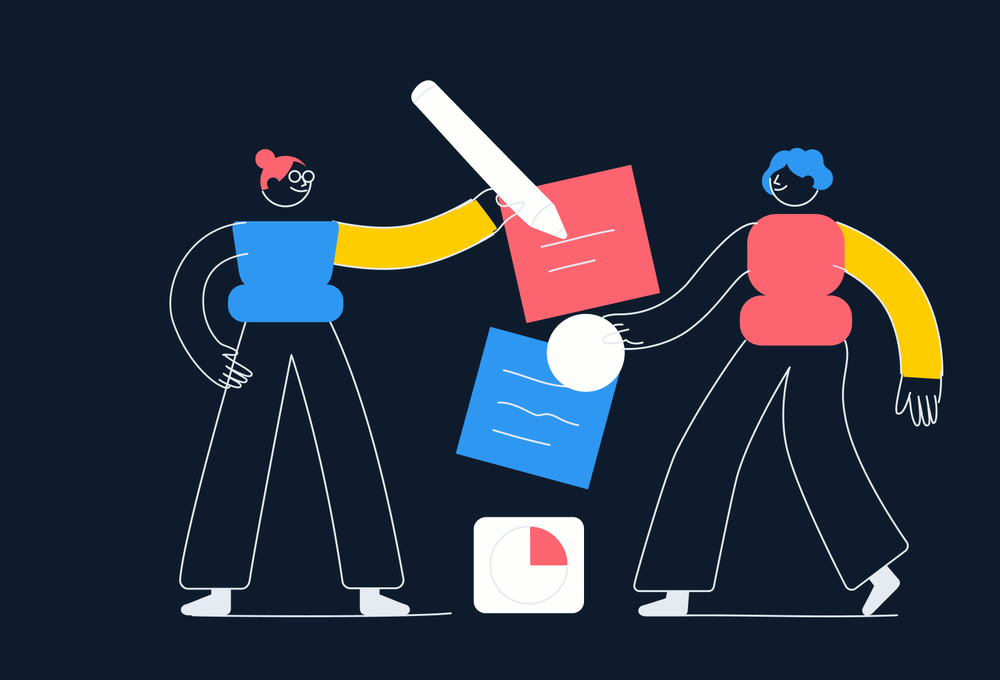
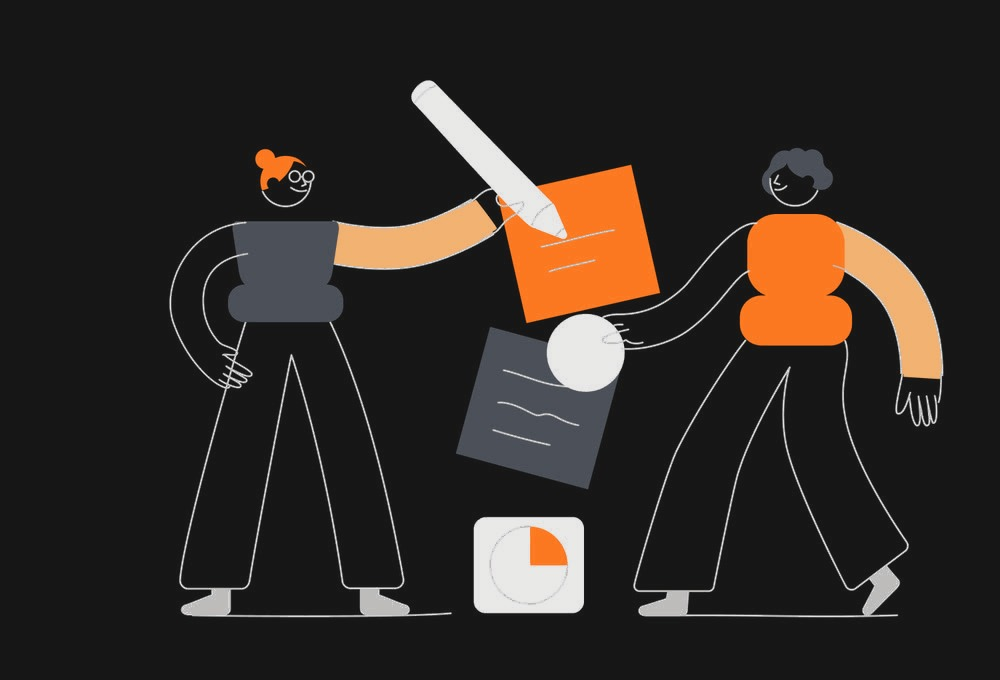
Mehrino: visible card strokes and faded persona numbers; Payment: illustrations recoloured for dark mode

diff --git a/stories/mehrino.js b/stories/mehrino.js
@@ -479,7 +479,7 @@ window.STORIES["mehrino"] = {
     .cs-media:has(> .mh-root) > .cs-media-head{display:none}
     .cs-story:has(.mh-root){padding-bottom:40px}
     .mh-root section{padding:0}
-    .mh-root{--b:#0F518F;--nv:#082C4E;--c2:#C2C2C2;--ink:#FAFAFA;--card:rgba(8,44,78,.03);--edge:rgba(15,81,143,.8);
+    .mh-root{--b:#0F518F;--nv:#082C4E;--c2:#C2C2C2;--ink:#FAFAFA;--card:rgba(8,44,78,.03);--edge:rgba(255,255,255,.26);--edge2:rgba(255,255,255,.16);
       position:relative;width:1216px;
       font-family:Roboto,system-ui,sans-serif;color:var(--ink);letter-spacing:0;line-height:1.5;font-size:16px}
     .mh-root :is(h2,h3,h4,h5,h6){color:var(--ink);letter-spacing:0;line-height:1.2;font-weight:300;margin:0}
@@ -545,7 +545,7 @@ window.STORIES["mehrino"] = {
     .mh-subject h4 b{font-weight:700}
     .mh-subject img{position:absolute;left:2px;right:2px;bottom:0;width:calc(100% - 4px);height:auto}
     .mh-desc{padding:128px 18px 0 19px;color:var(--c2)}
-    .mh-dnum{position:absolute;z-index:1;left:17px;top:24px;font:80px/1 "Rammetto One",sans-serif;color:var(--c2);letter-spacing:-.02em;pointer-events:none}
+    .mh-dnum{position:absolute;z-index:0;left:17px;top:24px;font:80px/1 "Rammetto One",sans-serif;color:rgba(194,194,194,.14);letter-spacing:-.02em;pointer-events:none}
     .mh-dnum small{font-size:50px}
     .mh-desc h4{position:absolute;left:26px;top:76px;font-size:30px;line-height:35px!important;color:var(--c2)!important;white-space:nowrap}
     .mh-desc h4 b{font-weight:700}
@@ -568,7 +568,7 @@ window.STORIES["mehrino"] = {
     .mh-who{display:block;font-size:12px;color:var(--c2);margin-top:8px}
     .mh-ins-grid h6{font-size:20px;line-height:23px!important;margin:10px 0 9px!important}
     .mh-ins-grid h6 b{font-weight:700}
-    .mh-ibox{background:rgba(8,44,78,.06);border-radius:20px;padding:23px 14px 14px 18px;font-size:10px;line-height:1.5;color:var(--c2)}
+    .mh-ibox{background:rgba(8,44,78,.06);border:1px solid var(--edge2);border-radius:20px;padding:23px 14px 14px 18px;font-size:10px;line-height:1.5;color:var(--c2)}
     .mh-ibox.pain{min-height:227px;margin-bottom:9px}
     .mh-ibox.pain + h6{margin-top:0!important}
     .mh-ibox:not(.pain){min-height:98px;padding-top:11px}
@@ -610,23 +610,23 @@ window.STORIES["mehrino"] = {
     .mh-prep{display:grid;grid-template-columns:repeat(2,minmax(0,416px));justify-content:center;column-gap:40px;row-gap:40px;margin-top:42px}
     .mh-prep h5{text-align:center;font-size:16px;line-height:19px!important;color:var(--c2)!important;margin-bottom:16px!important}
     .mh-prep h5 b{font-weight:800}
-    .mh-pq{height:calc(100% - 35px);background:rgba(8,44,78,.04);border:1px solid rgba(8,44,78,.3);border-radius:20px;padding:15px 10px 15px 10px;font-size:12px;line-height:18px;color:var(--c2);text-align:justify}
+    .mh-pq{height:calc(100% - 35px);background:rgba(8,44,78,.04);border:1px solid var(--edge2);border-radius:20px;padding:15px 10px 15px 10px;font-size:12px;line-height:18px;color:var(--c2);text-align:justify}
     .mh-pq ul{text-align:left;padding:10px 6px 0}
     .mh-prep > div:nth-child(-n+2) .mh-pq{min-height:307px}
     .mh-prep > div:nth-child(n+3) .mh-pq{min-height:179px}
     .mh-ctitle.hmw{margin-top:113px}
     .mh-hmwq{display:flex;flex-direction:column;align-items:center;gap:12px;margin-top:30px}
-    .mh-hmwq p{width:min(730px,100%);min-height:70px;display:grid;place-items:center;padding:12px 40px;background:rgba(8,44,78,.04);border:1px solid rgba(8,44,78,.3);border-radius:10px;font-size:14px;line-height:21px;text-align:center}
+    .mh-hmwq p{width:min(730px,100%);min-height:70px;display:grid;place-items:center;padding:12px 40px;background:rgba(8,44,78,.04);border:1px solid var(--edge2);border-radius:10px;font-size:14px;line-height:21px;text-align:center}
     .mh-ctitle.ps{margin-top:59px}
     .mh-ps{display:flex;flex-direction:column;align-items:center;gap:16px;margin-top:40px}
-    .mh-ps p{width:min(897px,100%);min-height:93px;display:grid;place-items:center;padding:12px 27px;background:rgba(8,44,78,.05);border-radius:10px;font-size:16px;font-weight:500;line-height:24px;text-align:center}
+    .mh-ps p{width:min(897px,100%);min-height:93px;display:grid;place-items:center;padding:12px 27px;background:rgba(8,44,78,.05);border:1px solid var(--edge2);border-radius:10px;font-size:16px;font-weight:500;line-height:24px;text-align:center}
 
     /* 02 personas */
     .mh-personas{margin-top:91px}
     .mh-personas > .mh-ctitle ~ .mh-ctitle{margin-top:150px}
     .mh-persona{display:grid;grid-template-columns:419fr 272fr 419fr;gap:16px;margin-top:28px}
     .mh-pcol{display:flex;flex-direction:column;gap:8px}
-    .mh-pbox{background:rgba(8,44,78,.05);border:1px solid rgba(8,44,78,.3);border-radius:20px;padding:10px 18px 14px 10px;font-size:14px;line-height:21px;color:var(--c2)}
+    .mh-pbox{background:rgba(8,44,78,.05);border:1px solid var(--edge2);border-radius:20px;padding:10px 18px 14px 10px;font-size:14px;line-height:21px;color:var(--c2)}
     .mh-pcol .mh-pbox:last-child{flex:1}
     .mh-root .mh-pbox h5,.mh-usecase h5,.mh-emp h5,.mh-pg h5{font-size:20px;line-height:23px;text-align:center;margin-bottom:10px}
     .mh-facts{padding-left:7px}
@@ -637,7 +637,7 @@ window.STORIES["mehrino"] = {
     .mh-emps > .mh-ctitle ~ .mh-ctitle{margin-top:164px}
     .mh-emp{display:grid;grid-template-columns:repeat(4,minmax(0,1fr));gap:22px;margin-top:73px}
     .mh-emp h5{margin-bottom:21px!important}
-    .mh-emp-box{min-height:263px;background:rgba(8,44,78,.05);border-radius:20px;padding:29px 22px 20px 25px;font-size:12px;line-height:18px;color:var(--c2)}
+    .mh-emp-box{min-height:263px;background:rgba(8,44,78,.05);border:1px solid var(--edge2);border-radius:20px;padding:29px 22px 20px 25px;font-size:12px;line-height:18px;color:var(--c2)}
     .mh-pg{display:grid;grid-template-columns:1fr 1fr;gap:28px;margin-top:21px}
     .mh-pg .mh-card{display:flex;align-items:center;gap:24px;min-height:113px;padding:16px 26px 16px 33px;background:rgba(8,44,78,.05);font-size:12px;line-height:15px;color:var(--c2)}
     .mh-pg .mh-card h5{margin:0!important;flex:none;width:60px;text-align:left}
@@ -646,7 +646,7 @@ window.STORIES["mehrino"] = {
 
     /* 03 define */
     .mh-hmw{display:grid;grid-template-columns:repeat(2,minmax(0,425px));justify-content:center;gap:24px 17px;margin-top:85px}
-    .mh-hmw > div{min-height:177px;display:flex;flex-direction:column;align-items:center;justify-content:center;gap:3px;padding:14px 22px;background:rgba(8,44,78,.05);border-radius:10px;text-align:center}
+    .mh-hmw > div{min-height:177px;display:flex;flex-direction:column;align-items:center;justify-content:center;gap:3px;padding:14px 22px;background:rgba(8,44,78,.05);border:1px solid var(--edge2);border-radius:10px;text-align:center}
     .mh-hmw > div:last-child:nth-child(odd){grid-column:1 / -1;justify-self:center;width:min(425px,100%)}
     .mh-hmw b{font-size:12px;font-weight:700;line-height:14px}
     .mh-hmw p{font-size:10.5px;line-height:13px;color:var(--c2);margin-bottom:6px}
@@ -666,16 +666,16 @@ window.STORIES["mehrino"] = {
         repeating-linear-gradient(90deg,transparent 0 65px,var(--b) 65px 66.5px) 9px calc(100% - 15px)/100% 7px no-repeat}
     .mh-quads::before{content:"";position:absolute;left:5px;top:-2px;border:4.5px solid transparent;border-bottom:7px solid var(--b);border-top:0}
     .mh-quads::after{content:"";position:absolute;right:-2px;bottom:10.5px;border:4.5px solid transparent;border-left:7px solid var(--b);border-right:0}
-    .mh-quads > div{background:rgba(8,44,78,.05);border:1px solid rgba(8,44,78,.3);border-radius:20px;padding:28px 32px;display:flex;flex-direction:column;gap:18px;font-size:12px;line-height:18px;text-align:center}
+    .mh-quads > div{background:rgba(8,44,78,.05);border:1px solid var(--edge2);border-radius:20px;padding:28px 32px;display:flex;flex-direction:column;gap:18px;font-size:12px;line-height:18px;text-align:center}
     .mh-quads > div:nth-child(2){gap:10px}
     .mh-quads > div:nth-child(4){padding-top:36px}
     .mh-xlab{display:flex;justify-content:space-between;padding-left:21px;margin-top:-6px;font-size:16px;line-height:25px}
     .mh-ctitle.sel{margin-top:95px}
     .mh-matrix + .mh-ctitle + .mh-brace,.mh-ctitle.sel + .mh-brace{margin:17px auto 0}
-    .mh-selected{width:min(819px,100%);min-height:110px;display:grid;place-items:center;margin:17px auto 0;padding:16px clamp(16px,13vw,148px);background:rgba(8,44,78,.05);border-radius:20px;font-size:16px;line-height:24px;text-align:center}
+    .mh-selected{width:min(819px,100%);min-height:110px;display:grid;place-items:center;margin:17px auto 0;padding:16px clamp(16px,13vw,148px);background:rgba(8,44,78,.05);border:1px solid var(--edge2);border-radius:20px;font-size:16px;line-height:24px;text-align:center}
 
     /* 05 style guide */
-    .mh-sg{margin:105px 0 0 59px;width:calc(100% - 26px);background:rgba(8,44,78,.03);padding:14px 61px 40px;font-family:Inter,sans-serif}
+    .mh-sg{margin:105px 0 0 59px;width:calc(100% - 26px);background:rgba(8,44,78,.03);border:1px solid var(--edge2);border-radius:20px;padding:14px 61px 40px;font-family:Inter,sans-serif}
     .mh-sg + .mh-sg{margin-top:40px}
     .mh-sg h4{font:700 35px/63px Inter,sans-serif!important}
     .mh-sg-sub{font:300 15px/27px Inter,sans-serif;color:var(--c2)}

diff --git a/stories/payment.js b/stories/payment.js
@@ -120,7 +120,7 @@ window.CS_BLOCKS = Object.assign(window.CS_BLOCKS || {}, (() => {
   s.textContent = `
     .ps-split{display:grid;grid-template-columns:1.35fr 1fr;gap:clamp(20px,4vw,40px);align-items:center}
     .ps-text p+p{margin-top:14px}
-    .ps-illus{border-radius:var(--radius);overflow:hidden;background:#0F1B2D;border:1px solid #1E2D45}
+    .ps-illus{border-radius:var(--radius);overflow:hidden;background:#161616;border:1px solid #262626}
     .ps-illus img{width:100%;height:auto;display:block}
     .ps-list{list-style:none;display:flex;flex-direction:column;gap:10px}
     .ps-text p + .ps-list{margin-top:14px}
